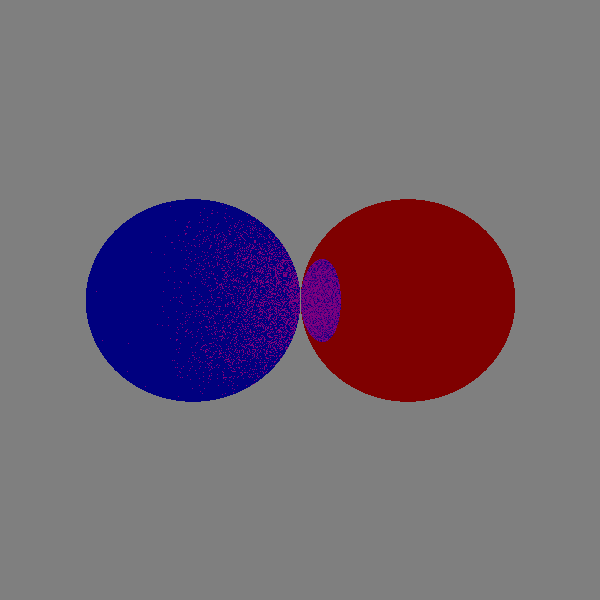
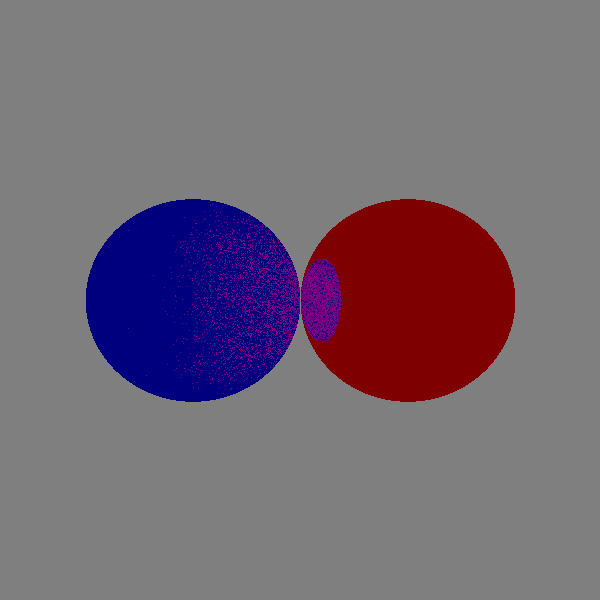
Formatted stuff

Changed region(s): [[0.3, 0.36, 0.57, 0.63]]

diff --git a/src/ray_marcher/ray.rs b/src/ray_marcher/ray.rs
@@ -1,5 +1,5 @@
+use super::{color_data_types::Color, scene_objects::SurfaceMaterial, Point3D, Vector3D};
 use rand::{self, Rng};
-use super::{Vector3D, Point3D, color_data_types::Color, scene_objects::SurfaceMaterial};
 
 #[allow(dead_code)]
 const MIN_HIT_DIST: f64 = 0.001;
@@ -13,26 +13,31 @@ pub struct Ray {
     pub color: Color,
 }
 
-
 impl Ray {
     pub fn new(pos: Point3D, dir: Vector3D) -> Self {
-        Ray { position: pos, direction: dir, num_hits: 0, color: Color::new(0.0, 0.0, 0.0), must_stop: false }
+        Ray {
+            position: pos,
+            direction: dir,
+            num_hits: 0,
+            color: Color::new(0.0, 0.0, 0.0),
+            must_stop: false,
+        }
     }
     pub fn step(&mut self, step_size: f64) {
-        if !self.must_stop{
+        if !self.must_stop {
             self.position += self.direction.clone().to_point() * step_size;
         }
     }
     pub fn get_position(&self) -> &Point3D {
         &self.position
     }
-    pub fn set_position(&mut self, new_pos: Point3D){
+    pub fn set_position(&mut self, new_pos: Point3D) {
         self.position = new_pos;
     }
-    pub fn get_direction(&self) -> &Vector3D{
+    pub fn get_direction(&self) -> &Vector3D {
         &self.direction
     }
-    pub fn set_direction(&mut self, new_dir: Vector3D){
+    pub fn set_direction(&mut self, new_dir: Vector3D) {
         self.direction = new_dir;
     }
     pub fn get_num_hits(&self) -> i32 {
@@ -44,7 +49,13 @@ impl Ray {
         // self.position += surf_normal.to_point() * back_off_dist;
         self.num_hits += 1;
     }
-    pub fn scatter(&mut self, surf_normal: &Vector3D, surf_material: &SurfaceMaterial, max_angle_change: f64, back_off_dist: f64) {
+    pub fn scatter(
+        &mut self,
+        surf_normal: &Vector3D,
+        surf_material: &SurfaceMaterial,
+        max_angle_change: f64,
+        back_off_dist: f64,
+    ) {
         let mut rng = rand::thread_rng();
         let rand_z_rot: f64 = (rng.gen::<f64>() * 2.0) - 1.0;
         let rand_y_rot: f64 = (rng.gen::<f64>() * 2.0) - 1.0;
@@ -53,18 +64,18 @@ impl Ray {
         self.position += surf_normal.to_point() * back_off_dist;
         normal.rotate_vector(
             rand_z_rot * (1.0 - surf_material.reflectivity) * max_angle_change,
-            rand_y_rot * (1.0 - surf_material.reflectivity) * max_angle_change
+            rand_y_rot * (1.0 - surf_material.reflectivity) * max_angle_change,
         );
 
         self.reflect(&normal, back_off_dist)
     }
-    pub fn stop(&mut self){
+    pub fn stop(&mut self) {
         self.must_stop = true;
     }
     pub fn has_stopped(&self) -> bool {
         self.must_stop
     }
-    pub fn get_color(&self) -> Color{
+    pub fn get_color(&self) -> Color {
         if self.num_hits > 0 {
             return self.color.clone();
         }
@@ -73,12 +84,12 @@ impl Ray {
 }
 
 #[cfg(test)]
-mod tests{
-    use super::*;
+mod tests {
     use super::super::Const_3D;
+    use super::*;
 
     #[test]
-    fn test_new(){
+    fn test_new() {
         let n_ray = Ray::new(Const_3D::ORIGIN, Const_3D::X_DIR);
         assert_eq!(*n_ray.get_position(), Const_3D::ORIGIN);
     }
@@ -88,15 +99,23 @@ mod tests{
         let step_size = 10_f64;
         let mut n_ray = Ray::new(Const_3D::ORIGIN, Const_3D::X_DIR);
         n_ray.step(step_size);
-        assert_eq!(*n_ray.get_position(), (Const_3D::X_DIR*step_size).to_point());
+        assert_eq!(
+            *n_ray.get_position(),
+            (Const_3D::X_DIR * step_size).to_point()
+        );
     }
 
     #[test]
-    fn test_reflection(){
-        let mut incoming = Ray::new(Point3D::new(0.0, 0.0, 0.0), Vector3D::new(1.0, 1.0, 0.0).get_norm());
+    fn test_reflection() {
+        let mut incoming = Ray::new(
+            Point3D::new(0.0, 0.0, 0.0),
+            Vector3D::new(1.0, 1.0, 0.0).get_norm(),
+        );
         let surf_norm = Vector3D::new(0.0, -1.0, 0.0);
         incoming.reflect(&surf_norm, 0.01);
-        assert_eq!(*incoming.get_direction(), Vector3D::new(1.0, -1.0, 0.0).get_norm());
+        assert_eq!(
+            *incoming.get_direction(),
+            Vector3D::new(1.0, -1.0, 0.0).get_norm()
+        );
     }
-
 }

diff --git a/src/ray_marcher/marcher.rs b/src/ray_marcher/marcher.rs
@@ -67,6 +67,7 @@ impl MarcherHandler {
 
     pub fn march(&mut self) -> screen::Screen<Color>{
         let num_bounce_const = self.num_steps;
+        let num_iters = self.num_iterations;
         let mut screen: screen::Screen<Color> = screen::Screen::new(self.camera.resolution);
         loop{
             self.rays.par_iter_mut().for_each(|ray| {
@@ -96,6 +97,7 @@ impl MarcherHandler {
             });
             self.num_steps -= 1;
             if self.num_steps <= 0 {
+                println!("{}%", 100_f64 - (self.num_iterations as f64 * 100_f64 / num_iters as f64));
                 self.num_iterations -= 1;
                 self.num_steps = num_bounce_const;
                 self.copy_colors(&mut screen);

diff --git a/src/main.rs b/src/main.rs
@@ -20,7 +20,7 @@ fn main() {
         (width_res, height_res),
     );
     let mut march_handler =
-        ray_marcher::marcher::MarcherHandler::new(1000, marcher::MAX_DISTANCE, 50, camera);
+        ray_marcher::marcher::MarcherHandler::new(2000, marcher::MAX_DISTANCE, 100, camera);
     // march_handler.debug = true;
     march_handler.add_scene_object(Sphere::new(
         Point::new(30.0, -10.0, 0.0),
